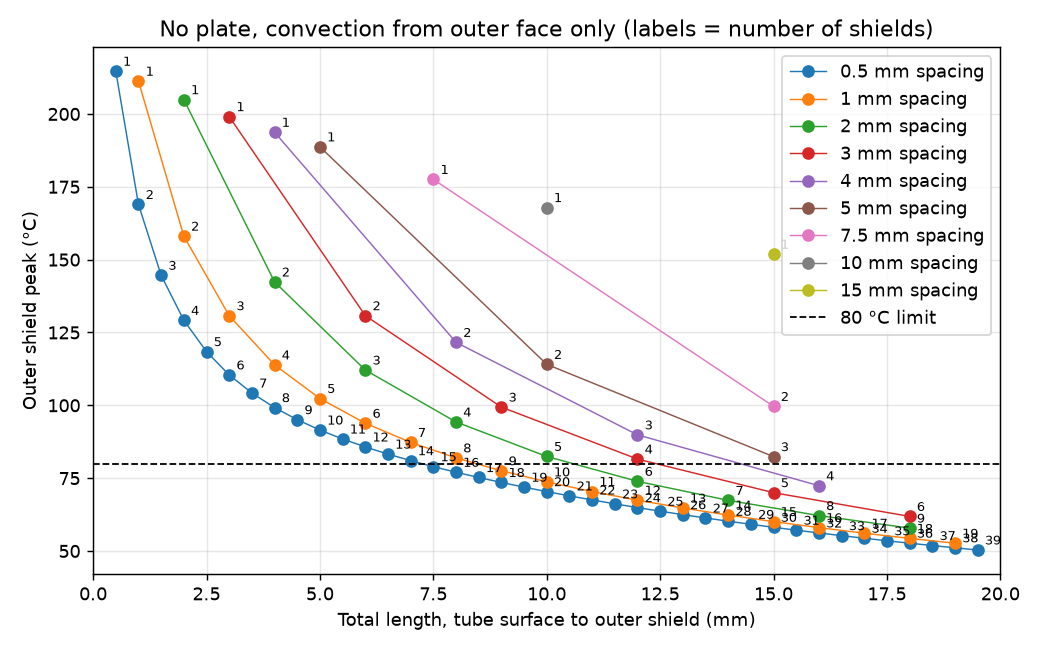
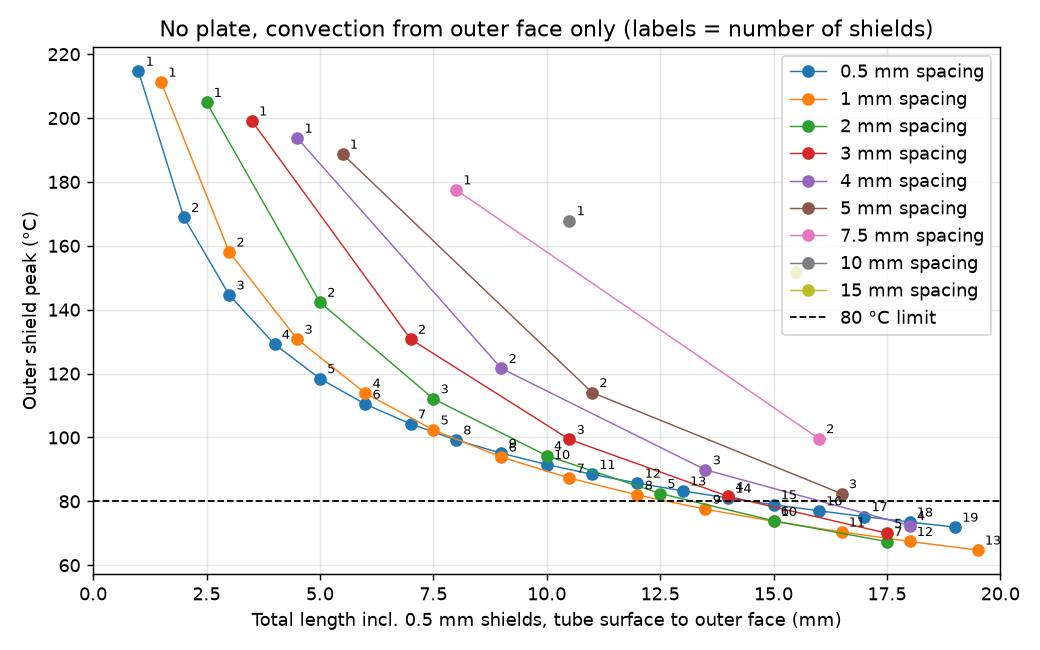
Issue #8: count shield thickness in total stack length

diff --git a/plot_issue8.py b/plot_issue8.py
@@ -9,16 +9,16 @@ fig, ax = plt.subplots(figsize=(8, 5))
 for sp in (0.0005, 0.001, 0.002, 0.003, 0.004, 0.005, 0.0075, 0.010, 0.015):
     L, T = [], []
     for n in range(1, 40):
-        if n * sp >= 0.020:  # total length under 20 mm
+        if n * (sp + s.shield_thickness) >= 0.020:  # total length under 20 mm
             break
-        L.append(n * sp * 1e3)  # n gaps: tube->shield 1, then shield to shield
+        L.append(n * (sp + s.shield_thickness) * 1e3)  # n gaps plus n shield thicknesses
         T.append(solve(s, n, plate=False, spacing=sp, convect_front=False, n_strips=40).T_plate_max - 273.15)
     ax.plot(L, T, "o-", lw=0.8, label=f"{sp*1e3:g} mm spacing")
     for l, t, n in zip(L, T, range(1, 40)):
         ax.annotate(str(n), (l, t), textcoords="offset points", xytext=(4, 3), fontsize=7)
 ax.axhline(80, color="k", ls="--", lw=1, label="80 °C limit")
 ax.set_xlim(0, 20)
-ax.set_xlabel("Total length, tube surface to outer shield (mm)")
+ax.set_xlabel(f"Total length incl. {s.shield_thickness*1e3:g} mm shields, tube surface to outer face (mm)")
 ax.set_ylabel("Outer shield peak (°C)")
 ax.set_title("No plate, convection from outer face only (labels = number of shields)")
 ax.legend(); ax.grid(alpha=0.3, )

diff --git a/README.md b/README.md
@@ -77,9 +77,11 @@ each sheet's radiation escapes past the edges instead of reaching the next sheet
 more shields into a fixed 10 mm gap gives diminishing returns (no plate: 168, 114, 96, 87 °C
 for 1–4 shields), since the gaps thin out and air conduction across them takes over.
 
-With an **80 °C limit** and the stack kept under 20 mm from the tube surface
-(`python plot_issue8.py`): the fewest shields is 4 at 4 mm spacing (16 mm, 72 °C), and the
-shortest stack is 9 at 1 mm spacing (9 mm, 77 °C).
+With an **80 °C limit** and the stack kept under 20 mm from the tube surface, counting
+the 0.5 mm thickness of each stainless shield (`python plot_issue8.py`): the fewest shields
+is 4 at 4 mm spacing (18 mm, 72 °C), and the shortest stack is 9 at 1 mm spacing
+(13.5 mm, 77 °C). Packing shields closer than 1 mm makes the stack longer, because
+the shields' own thickness then outweighs the gaps.
 
 ## Running
 
